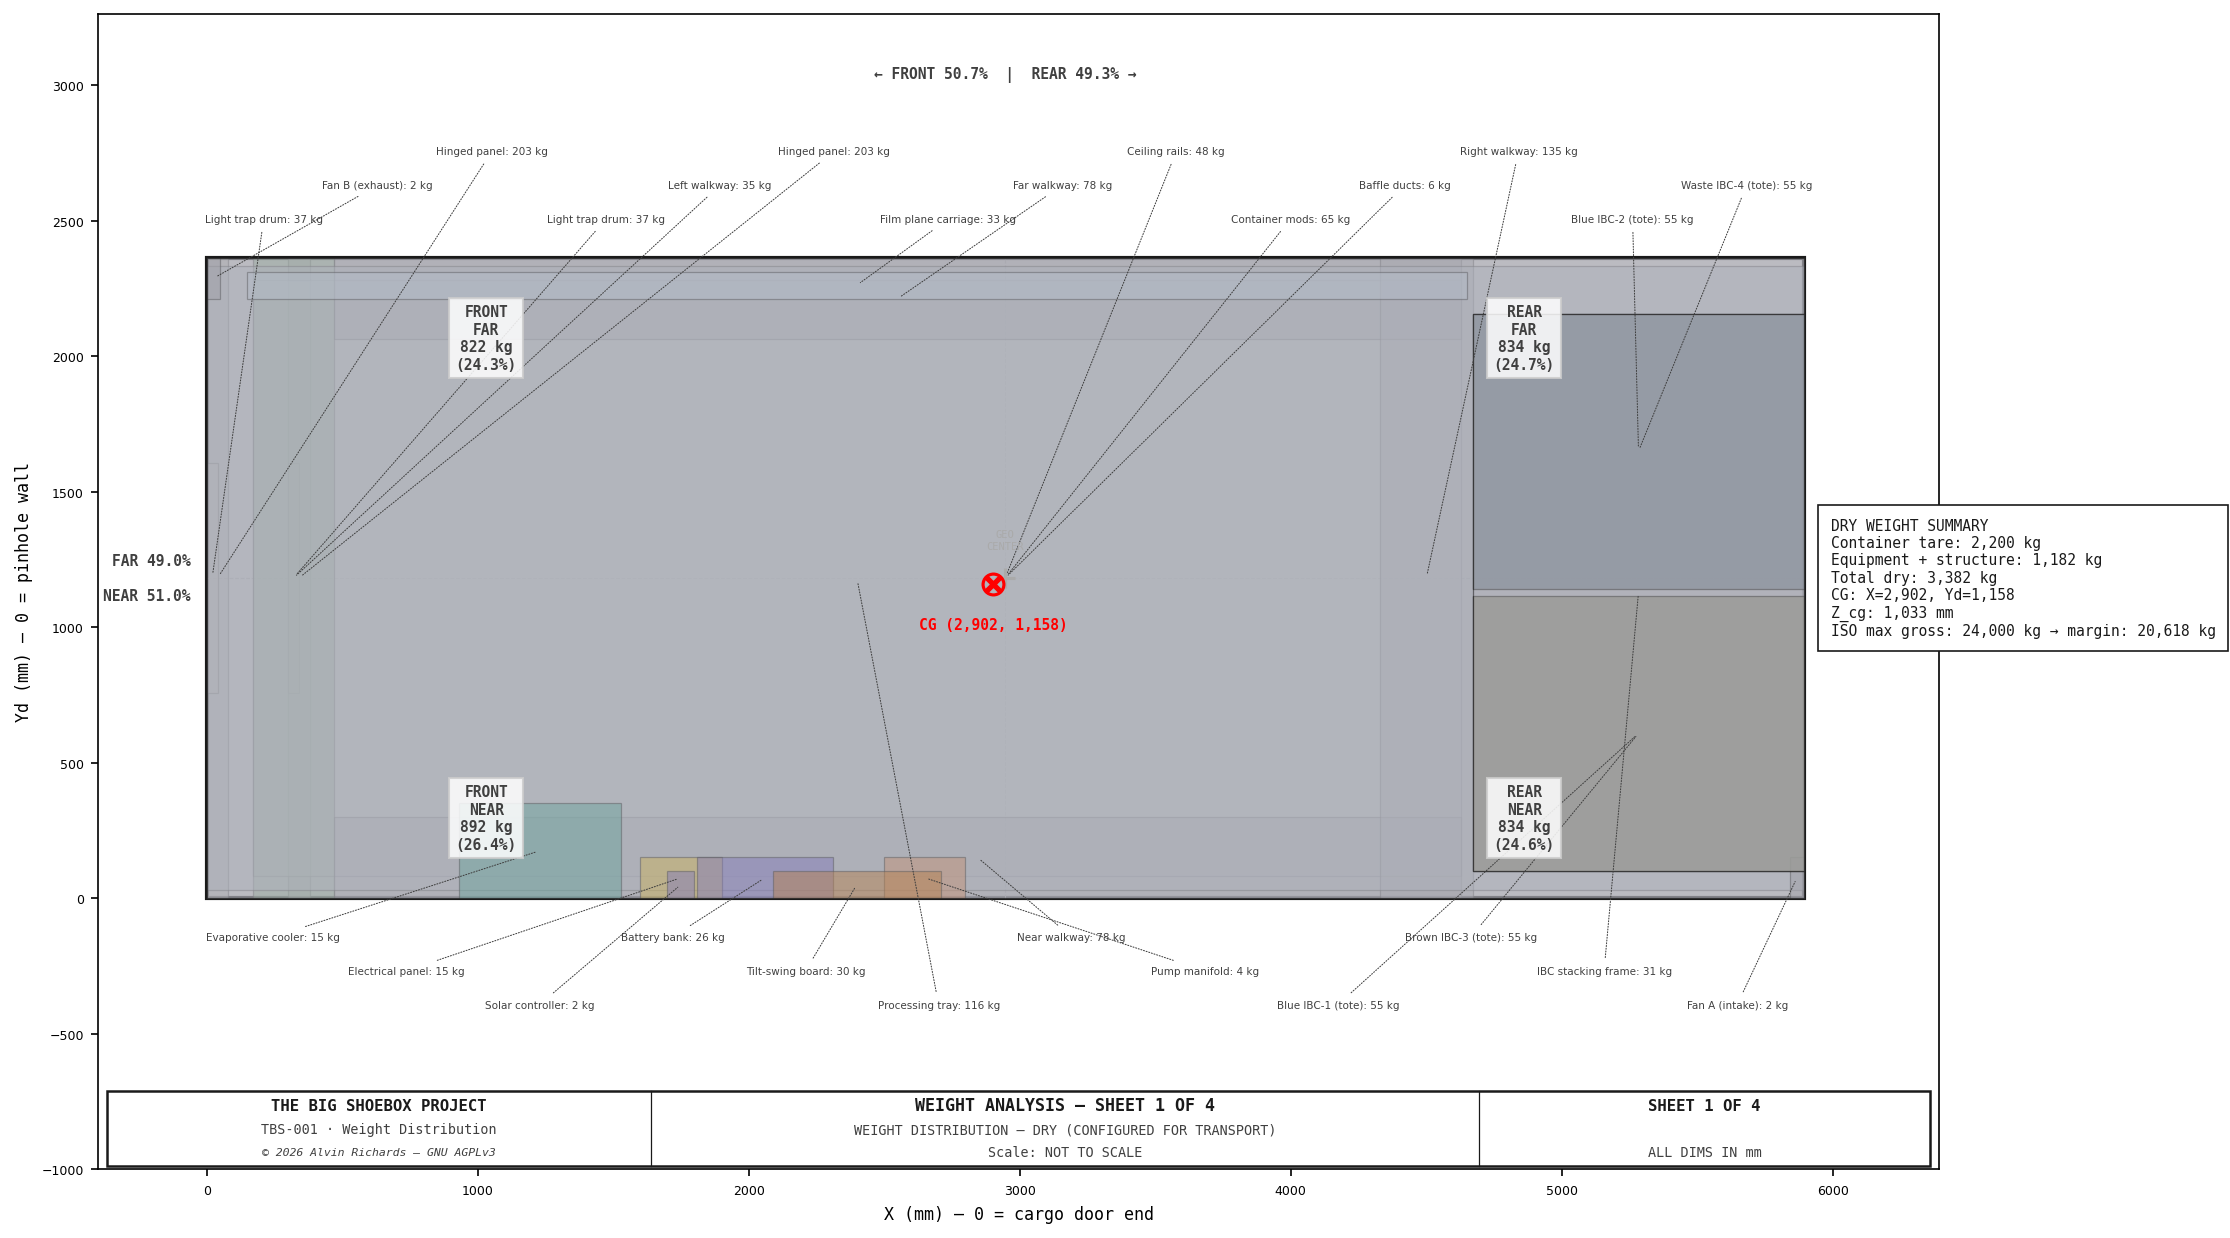
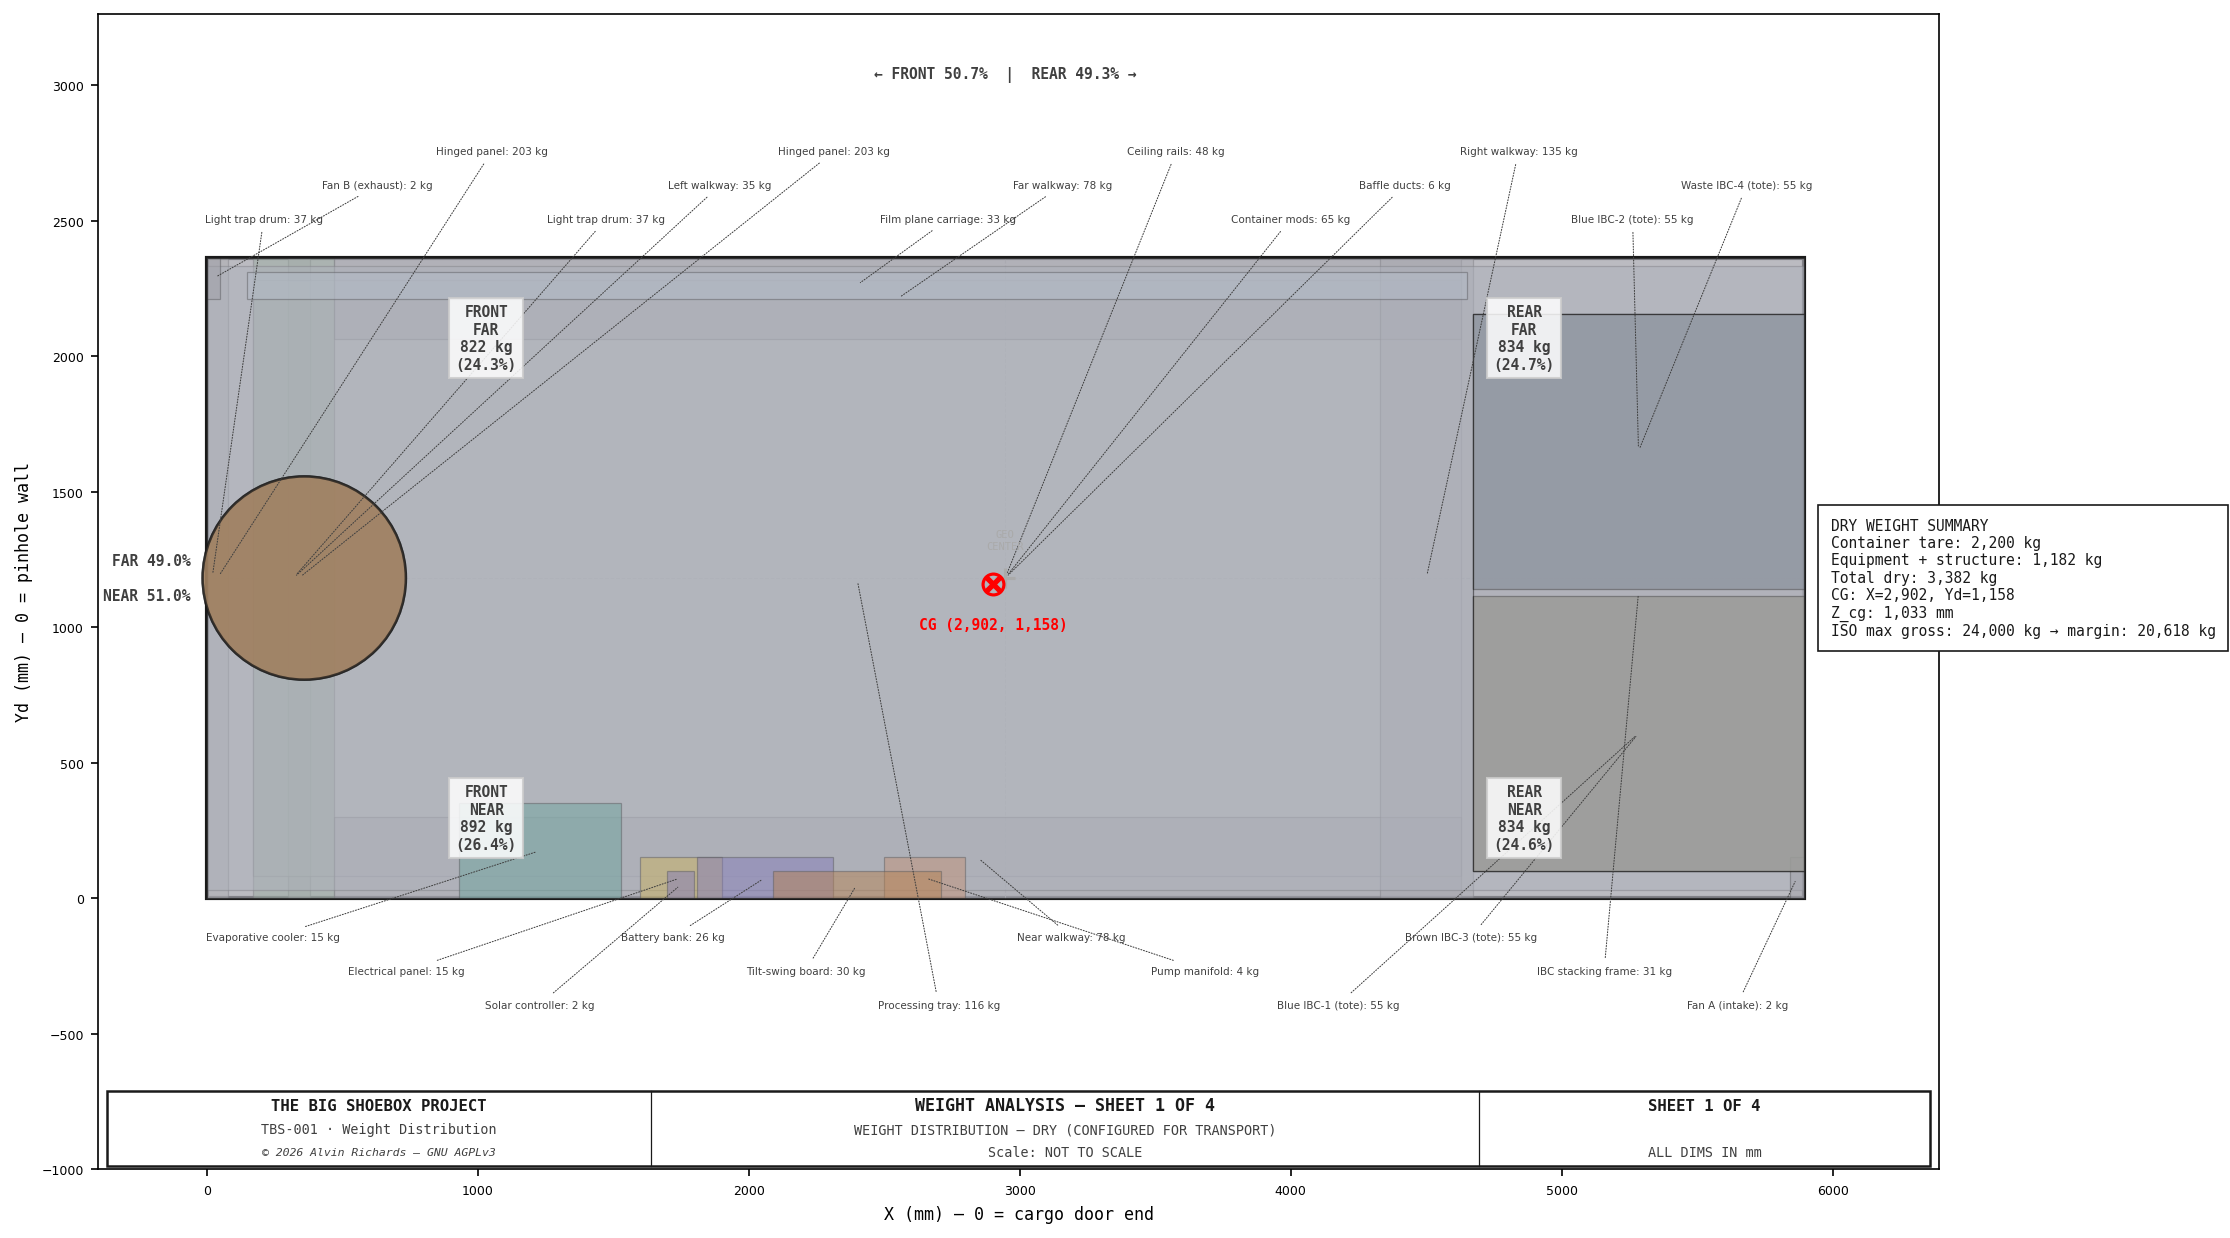
Draw light trap drum as circle on all sheets with correct positions
Sheet 1 and 3 (transport): drum center at X=360 (PANEL_SLIDE + half
center-zone thickness), fully retracted for door clearance. Sheet 2
(deployed): drum center at X=60, protruding through the cargo door end.
Drum circle position matches floor plan diagram conventions.

Changed region(s): [[0.0928, 0.3683, 0.1857, 0.5525]]

diff --git a/generate_weight_analysis.py b/generate_weight_analysis.py
@@ -592,8 +592,15 @@ def sheet1(components):
     _draw_container_outline(ax)
 
     # Draw each component (no inline labels — all via leaders)
+    # Draw drum as circle separately
     for c in dry:
-        _draw_component(ax, c, alpha=0.5, show_label=False)
+        if c.name == "Light trap drum":
+            drum_cx = PANEL_SLIDE + PANEL_CENTER_T / 2  # transport position
+            drum_cy = C_WID / 2
+            ax.add_patch(Circle((drum_cx, drum_cy), DRUM_R,
+                         fc="#A08060", ec=C_OUT, lw=1.2, alpha=0.7, zorder=7))
+        else:
+            _draw_component(ax, c, alpha=0.5, show_label=False)
 
     # Leader labels for ALL components — split near-side and far-side
     near_comps = [c for c in dry if c.yd_cg < C_WID / 2]
@@ -710,8 +717,12 @@ def _draw_state_diagram(ax, components, state, state_label):
         _draw_component(ax, c, alpha=0.5, show_label=False)
     for c in drum:
         # Draw drum as circle (plan view of cylinder Ø750mm)
-        cx = c.x_cg
-        cy = c.yd_cg
+        # Position: panel face + half center-zone thickness
+        if state in ("dry", "exhausted"):
+            cx = PANEL_SLIDE + PANEL_CENTER_T / 2  # transport
+        else:
+            cx = PANEL_CENTER_T / 2  # deployed
+        cy = C_WID / 2
         ax.add_patch(Circle((cx, cy), DRUM_R,
                      fc="#A08060", ec=C_OUT, lw=1.2, alpha=0.7, zorder=7))
     for c in others:
